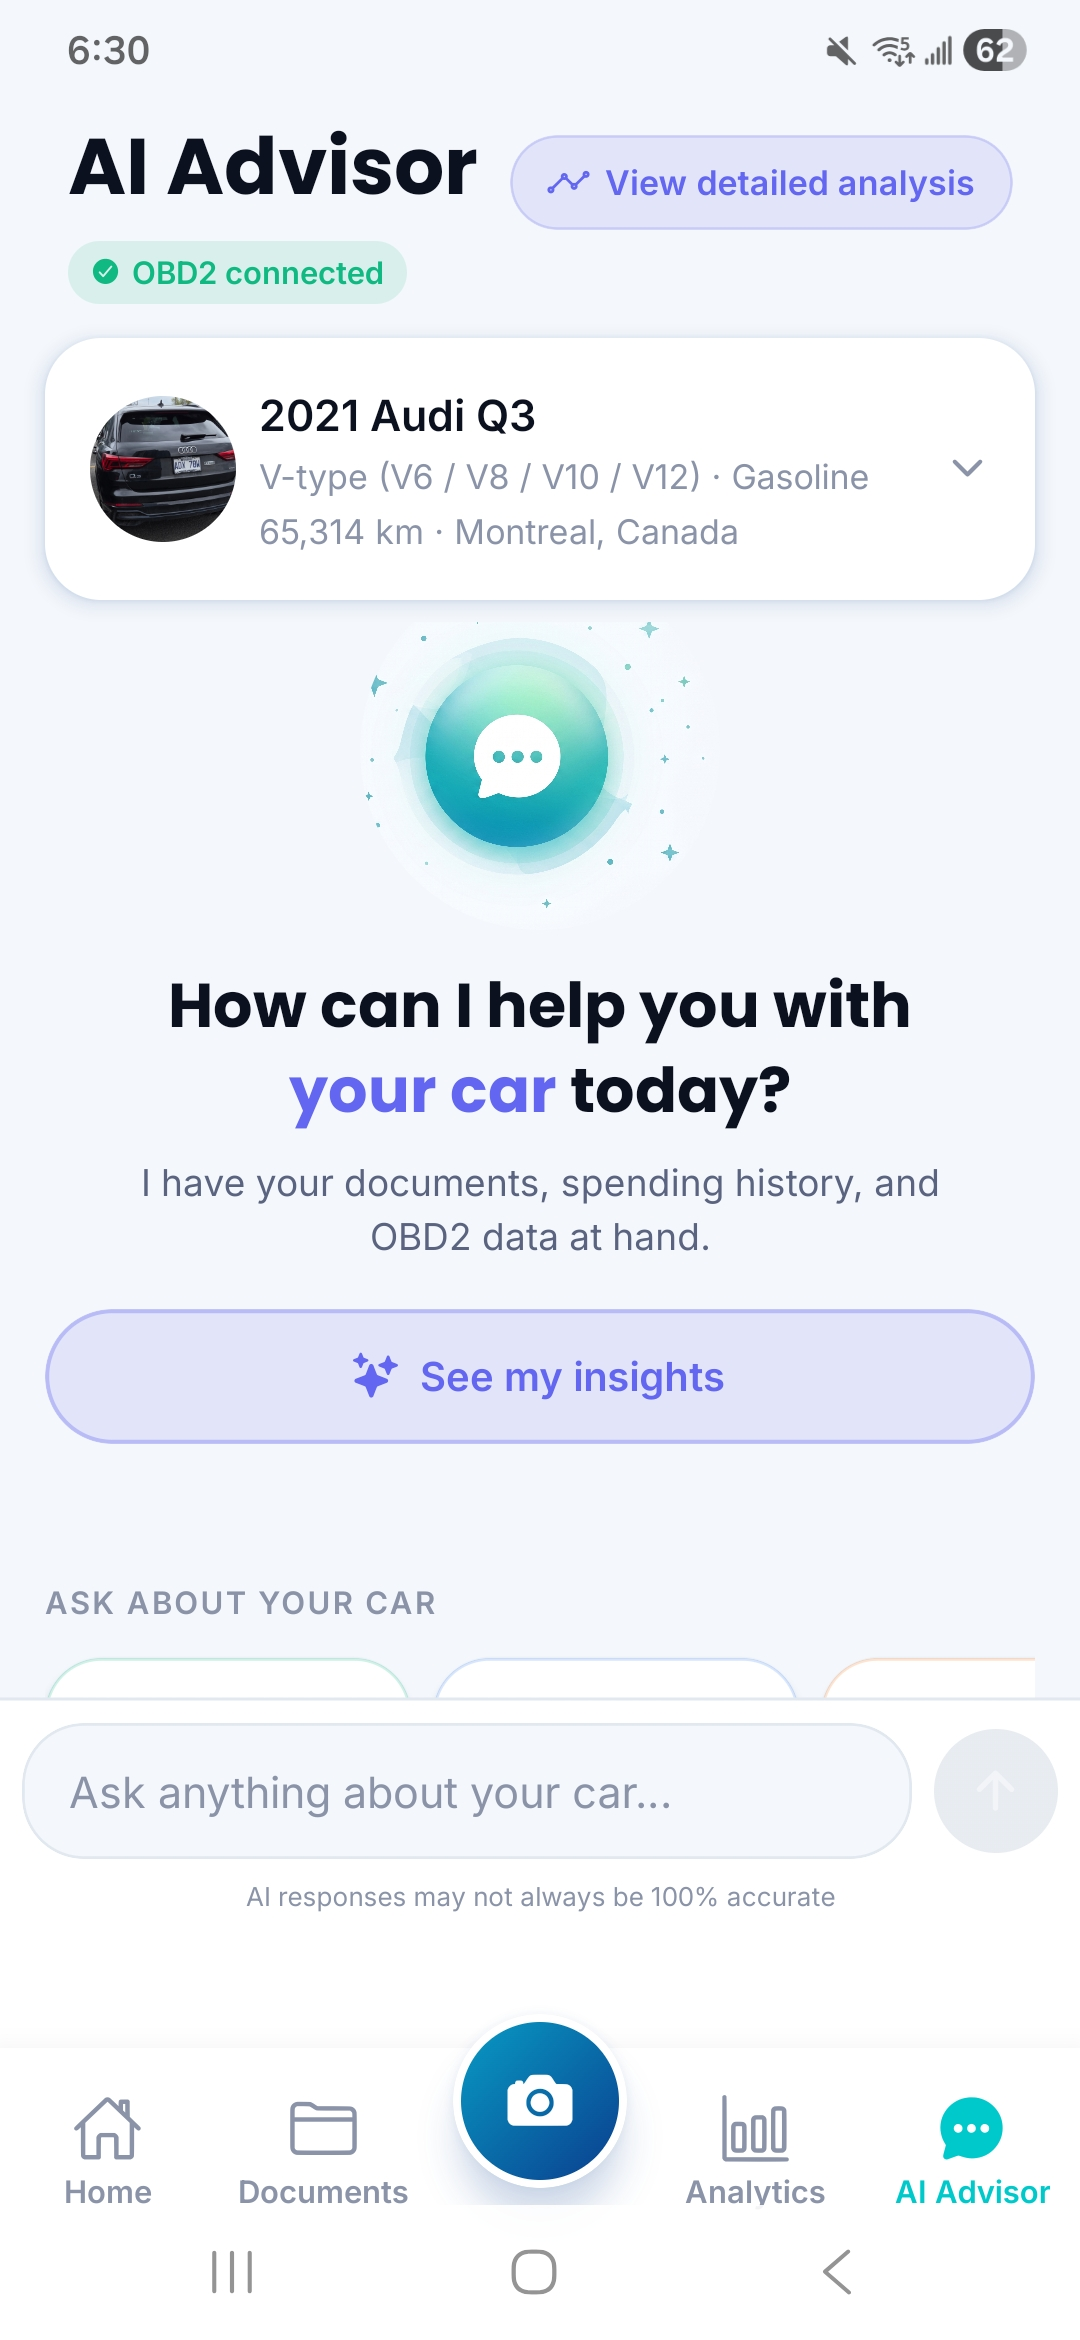
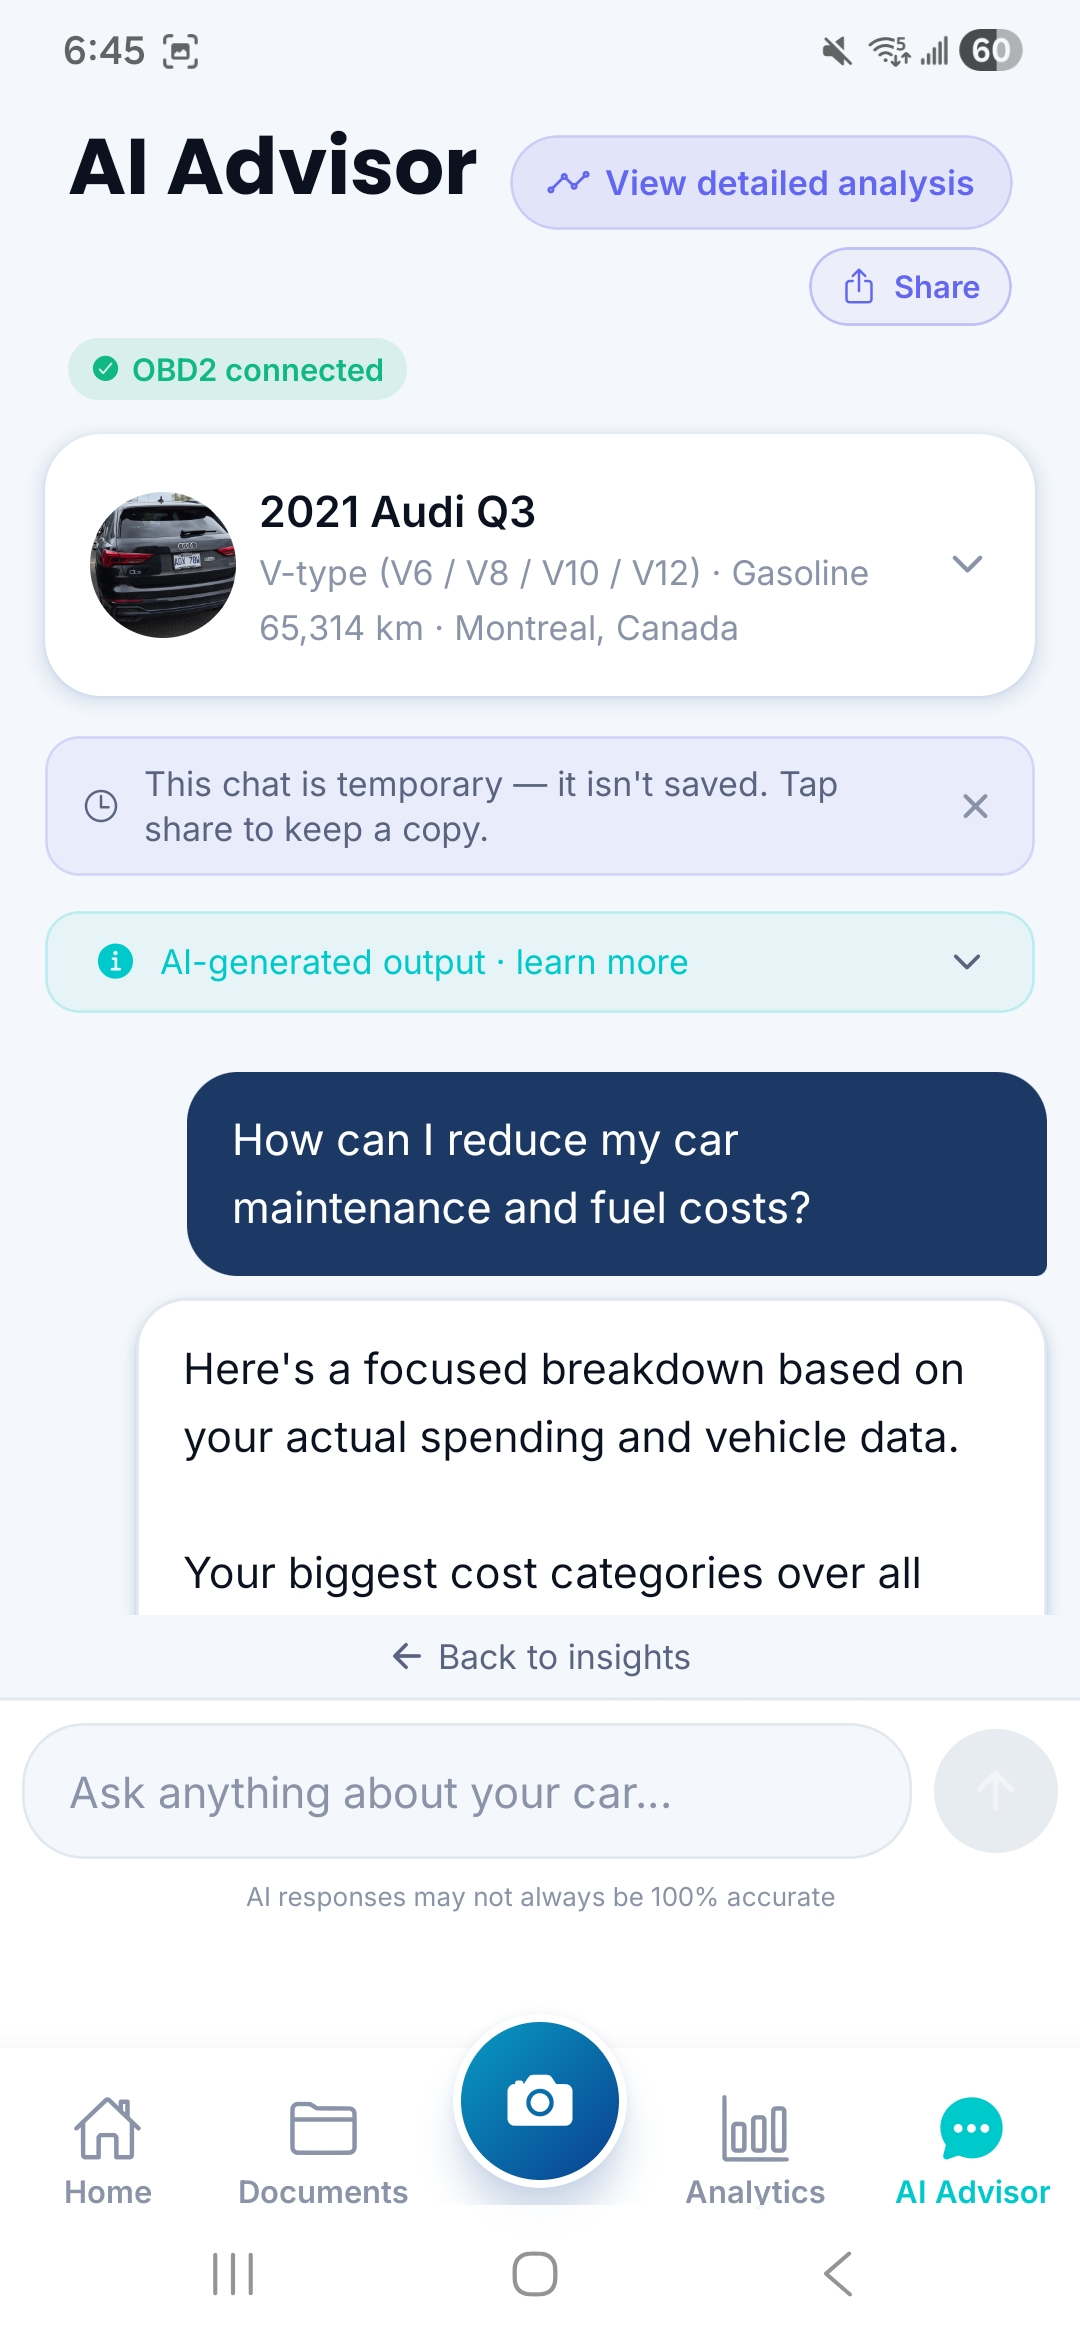
feat(h1b): wire real fleet + valuation + OBD2 + advisor-chat screens
10 new screenshots dropped by founder. Renamed + assigned per
section, with the dense / admin / duplicate views archived to
/public/_mockups/ for potential E1/E2 store-listing use.

Section wiring:
- Valuation (§5): app-valuation.jpg now lives in the dark band's
  phone frame. The screenshot shows the actual Market Value
  $34,705 estimate with AutoTrader.ca comparables and the
  CarFai engine "what moves your value" breakdown — exactly
  the section's claim, in product.
- Maintenance (§4): swapped from app-analytics-maintenance.jpg
  to app-obd2.jpg. The OBD2 dashboard (fault codes + key
  readings + 30-day drive summary) is visually more
  distinctive than the calendar view, and OBD2 is the most
  differentiating capability of the three bullets. The AI
  Calendar + Document Expiry stories stay in the bullet copy.
- Advisor (§6): the old empty-state shot moved to
  /_mockups/app-aiadvisor-emptystate.jpg; the new real-chat
  screenshot ("How can I reduce my car maintenance and fuel
  costs?" + the AI's response) is now app-aiadvisor.jpg.
  Reads as "this is what it does" instead of "this is the
  blank canvas".
- Fleet (§7): rebuilt from scratch. The earlier 4-card text
  layout becomes 3 cards each carrying a real fleet screen
  (B2B home / overview / analytics) in a phone frame next to
  a one-line caption. Still horizontal-on-vertical scroll;
  cards are wider to accommodate the phone + caption split.

Renames:
[…]

diff --git a/app/_sections/Fleet.tsx b/app/_sections/Fleet.tsx
@@ -1,6 +1,7 @@
 'use client';
 
 import { useRef } from 'react';
+import Image from 'next/image';
 import { gsap } from 'gsap';
 import { ScrollTrigger } from 'gsap/ScrollTrigger';
 import { useGSAP } from '@gsap/react';
@@ -10,15 +11,41 @@ if (typeof window !== 'undefined') {
 }
 
 /**
- * Section 5 — Fleet band. Named pattern: horizontal-on-vertical.
+ * Section 7 — Fleet band. Named pattern: horizontal-on-vertical.
  *
- * Scroll down → cards translate sideways inside a pinned container.
- * Linear features pattern. Reads as "B2B is a real branch of the
- * product" without breaking page flow into a separate route.
+ * Cards translate sideways inside a pinned container as the user
+ * scrolls down. Each card = phone frame + real B2B screenshot +
+ * one-line caption. Replaces the earlier all-text 4-card layout
+ * once the founder shipped 3 real fleet screenshots.
  */
+
+const cards = [
+  {
+    image:   '/app-fleet-home.jpg',
+    eyebrow: 'B2B home',
+    title:   'Pick a fleet. See what’s overdue.',
+    body:    'Same product as the personal app, plus the org switcher. A driver sees their own car; an owner sees the whole fleet.',
+    alt:     'B2B home screen for the Entr organization showing fleet analytics, a 2024 Lamborghini Urus with an oil-change-overdue flag, and driver assignment.',
+  },
+  {
+    image:   '/app-fleet-overview.jpg',
+    eyebrow: 'Overview',
+    title:   'Team, vehicles, docs, AI usage. One screen.',
+    body:    'Seats used, vehicles, documents handled, AI tokens remaining. Quick-actions for inviting members, adding vehicles, opening analytics.',
+    alt:     'Fleet overview screen showing team 7/20, 8 vehicles, 25 documents, AI actions remaining, plus quick-action shortcuts.',
+  },
+  {
+    image:   '/app-fleet-analytics.jpg',
+    eyebrow: 'Analytics',
+    title:   'Spend by category. Top cost vehicles. /km or total.',
+    body:    'Per-period rollups with category breakdown and a per-vehicle cost leaderboard. Toggle between total spend and per-km efficiency.',
+    alt:     'Fleet analytics screen with a 12-month spend-by-category bar chart and a top-5 cost-vehicles list led by a 2022 Ferrari 458.',
+  },
+];
+
 export function Fleet() {
   const sectionRef = useRef<HTMLDivElement>(null);
-  const trackRef = useRef<HTMLDivElement>(null);
+  const trackRef   = useRef<HTMLDivElement>(null);
 
   useGSAP(
     () => {
@@ -44,33 +71,10 @@ export function Fleet() {
     { scope: sectionRef },
   );
 
-  const cards = [
-    {
-      eyebrow: 'fleet',
-      title:   '1 vehicle to 200.',
-      body:    'CarFai\'s personal advisor and the fleet dashboard are the same product. Add cars; nothing changes about how the advisor talks to you.',
-    },
-    {
-      eyebrow: 'costs',
-      title:   'Money, by vehicle.',
-      body:    'Per-vehicle operating cost, leaderboards, and category drill-downs. Bring fuel cards, maintenance receipts, or both — same shape.',
-    },
-    {
-      eyebrow: 'roles',
-      title:   'Manager vs driver, not flat.',
-      body:    'Drivers see only their own car. Managers see their assigned vehicles. Owners see the org. RLS-enforced — not a UI gate.',
-    },
-    {
-      eyebrow: 'export',
-      title:   'Exports your accountant wants.',
-      body:    'Per-period CSV / PDF / Excel rollups with tax-deductible flags pre-applied. No re-keying.',
-    },
-  ];
-
   return (
     <section ref={sectionRef} className="relative h-screen overflow-hidden bg-paperDeep">
-      <div className="mx-auto max-w-6xl px-6 pt-20 pb-10 md:pt-28">
-        <p className="font-mono text-xs uppercase tracking-widest text-slate2 mb-6">
+      <div className="mx-auto max-w-6xl px-6 pt-16 pb-8 md:pt-20">
+        <p className="font-mono text-xs uppercase tracking-widest text-slate2 mb-4">
           For fleets
         </p>
         <h2 className="text-3xl md:text-5xl font-medium tracking-tight text-ink max-w-2xl leading-[1.1]">
@@ -81,22 +85,36 @@ export function Fleet() {
       <div className="overflow-hidden">
         <div
           ref={trackRef}
-          className="flex gap-6 px-6 md:px-[max(1.5rem,calc((100vw-72rem)/2))] will-change-transform"
+          className="flex gap-8 px-6 md:px-[max(1.5rem,calc((100vw-72rem)/2))] will-change-transform items-stretch"
         >
           {cards.map((c, i) => (
             <article
               key={i}
-              className="shrink-0 w-[80vw] md:w-[36rem] rounded-3xl border border-rule bg-paper p-8 md:p-12"
+              className="shrink-0 w-[88vw] md:w-[42rem] rounded-3xl border border-rule bg-paper p-8 md:p-10 grid md:grid-cols-[auto_1fr] gap-8 items-center"
             >
-              <p className="font-mono text-xs uppercase tracking-widest text-accent mb-6">
-                {String(i + 1).padStart(2, '0')} · {c.eyebrow}
-              </p>
-              <h3 className="text-2xl md:text-3xl font-medium tracking-tight text-ink mb-4 leading-tight">
-                {c.title}
-              </h3>
-              <p className="text-base md:text-lg text-slate2 leading-relaxed">
-                {c.body}
-              </p>
+              {/* Phone frame with the real fleet screenshot */}
+              <div className="relative aspect-[9/19] w-[180px] md:w-[200px] rounded-[2rem] border-[8px] border-ink bg-ink overflow-hidden shadow-[0_20px_40px_-15px_rgba(11,14,19,0.35)] mx-auto">
+                <Image
+                  src={c.image}
+                  alt={c.alt}
+                  fill
+                  sizes="200px"
+                  className="object-cover"
+                />
+              </div>
+
+              {/* Caption */}
+              <div>
+                <p className="font-mono text-xs uppercase tracking-widest text-accent mb-3">
+                  {String(i + 1).padStart(2, '0')} · {c.eyebrow}
+                </p>
+                <h3 className="text-xl md:text-2xl font-medium tracking-tight text-ink leading-tight mb-3">
+                  {c.title}
+                </h3>
+                <p className="text-base text-slate2 leading-relaxed">
+                  {c.body}
+                </p>
+              </div>
             </article>
           ))}
         </div>

diff --git a/app/_sections/Maintenance.tsx b/app/_sections/Maintenance.tsx
@@ -8,8 +8,11 @@ import Image from 'next/image';
 // the section sits between the pinned ScanTrack and the
 // horizontal-on-vertical Fleet later — too much motion compounding.
 
-const MAINT_IMAGE_EXISTS = existsSync(
-  join(process.cwd(), 'public', 'app-analytics-maintenance.jpg'),
+// Visual leans on the OBD2 dashboard since OBD2 is the section's
+// most differentiating capability (fault codes + live readings).
+// The maintenance/calendar story stays in the bullet copy.
+const OBD2_IMAGE_EXISTS = existsSync(
+  join(process.cwd(), 'public', 'app-obd2.jpg'),
 );
 
 const bullets = [
@@ -33,10 +36,10 @@ export function Maintenance() {
       <div className="mx-auto max-w-6xl px-6 py-28 md:py-40 grid md:grid-cols-[1fr_1fr] gap-12 md:gap-16 items-center">
         {/* Left: phone-shaped frame with the maintenance screen */}
         <div className="relative aspect-[9/19] max-h-[78vh] mx-auto w-full max-w-xs rounded-[2.5rem] border-[10px] border-ink bg-ink overflow-hidden shadow-[0_30px_60px_-20px_rgba(11,14,19,0.35)] order-2 md:order-1">
-          {MAINT_IMAGE_EXISTS ? (
+          {OBD2_IMAGE_EXISTS ? (
             <Image
-              src="/app-analytics-maintenance.jpg"
-              alt="CarFai maintenance screen with AI Maintenance Calendar, OBD2 Scanner card, and an Insurance Renewal entry due in 186 days."
+              src="/app-obd2.jpg"
+              alt="CarFai OBD2 dashboard: 2 fault codes (P0000 info, P0043 warning), key readings (battery 13.1 V, coolant 63 °C, odometer 65,415 km), and a 30-day drive summary."
               fill
               sizes="(min-width: 768px) 320px, 80vw"
               className="object-cover"
@@ -44,7 +47,7 @@ export function Maintenance() {
           ) : (
             <div className="absolute inset-0 flex items-center justify-center text-center px-6 bg-paperDeep">
               <p className="font-mono text-xs uppercase tracking-widest text-slate2">
-                missing<br />/public/app-analytics-maintenance.jpg
+                missing<br />/public/app-obd2.jpg
               </p>
             </div>
           )}